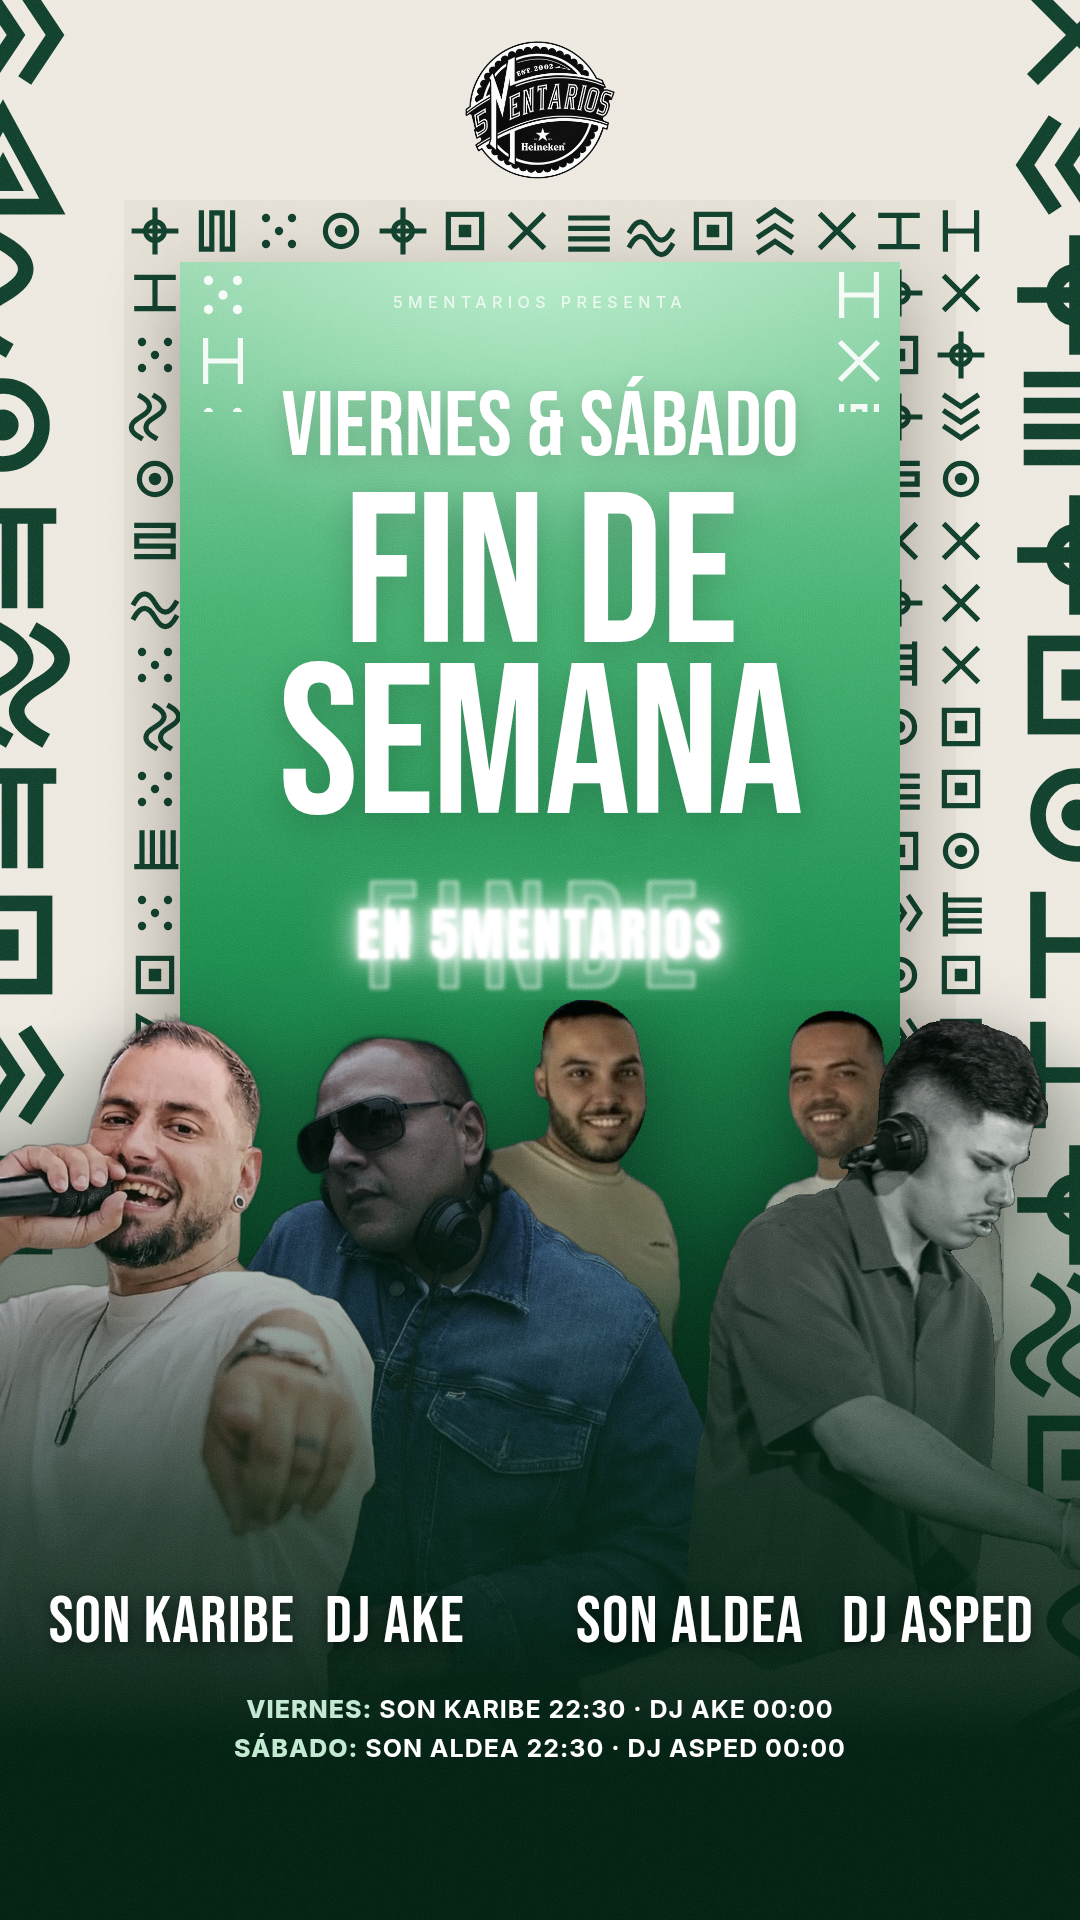
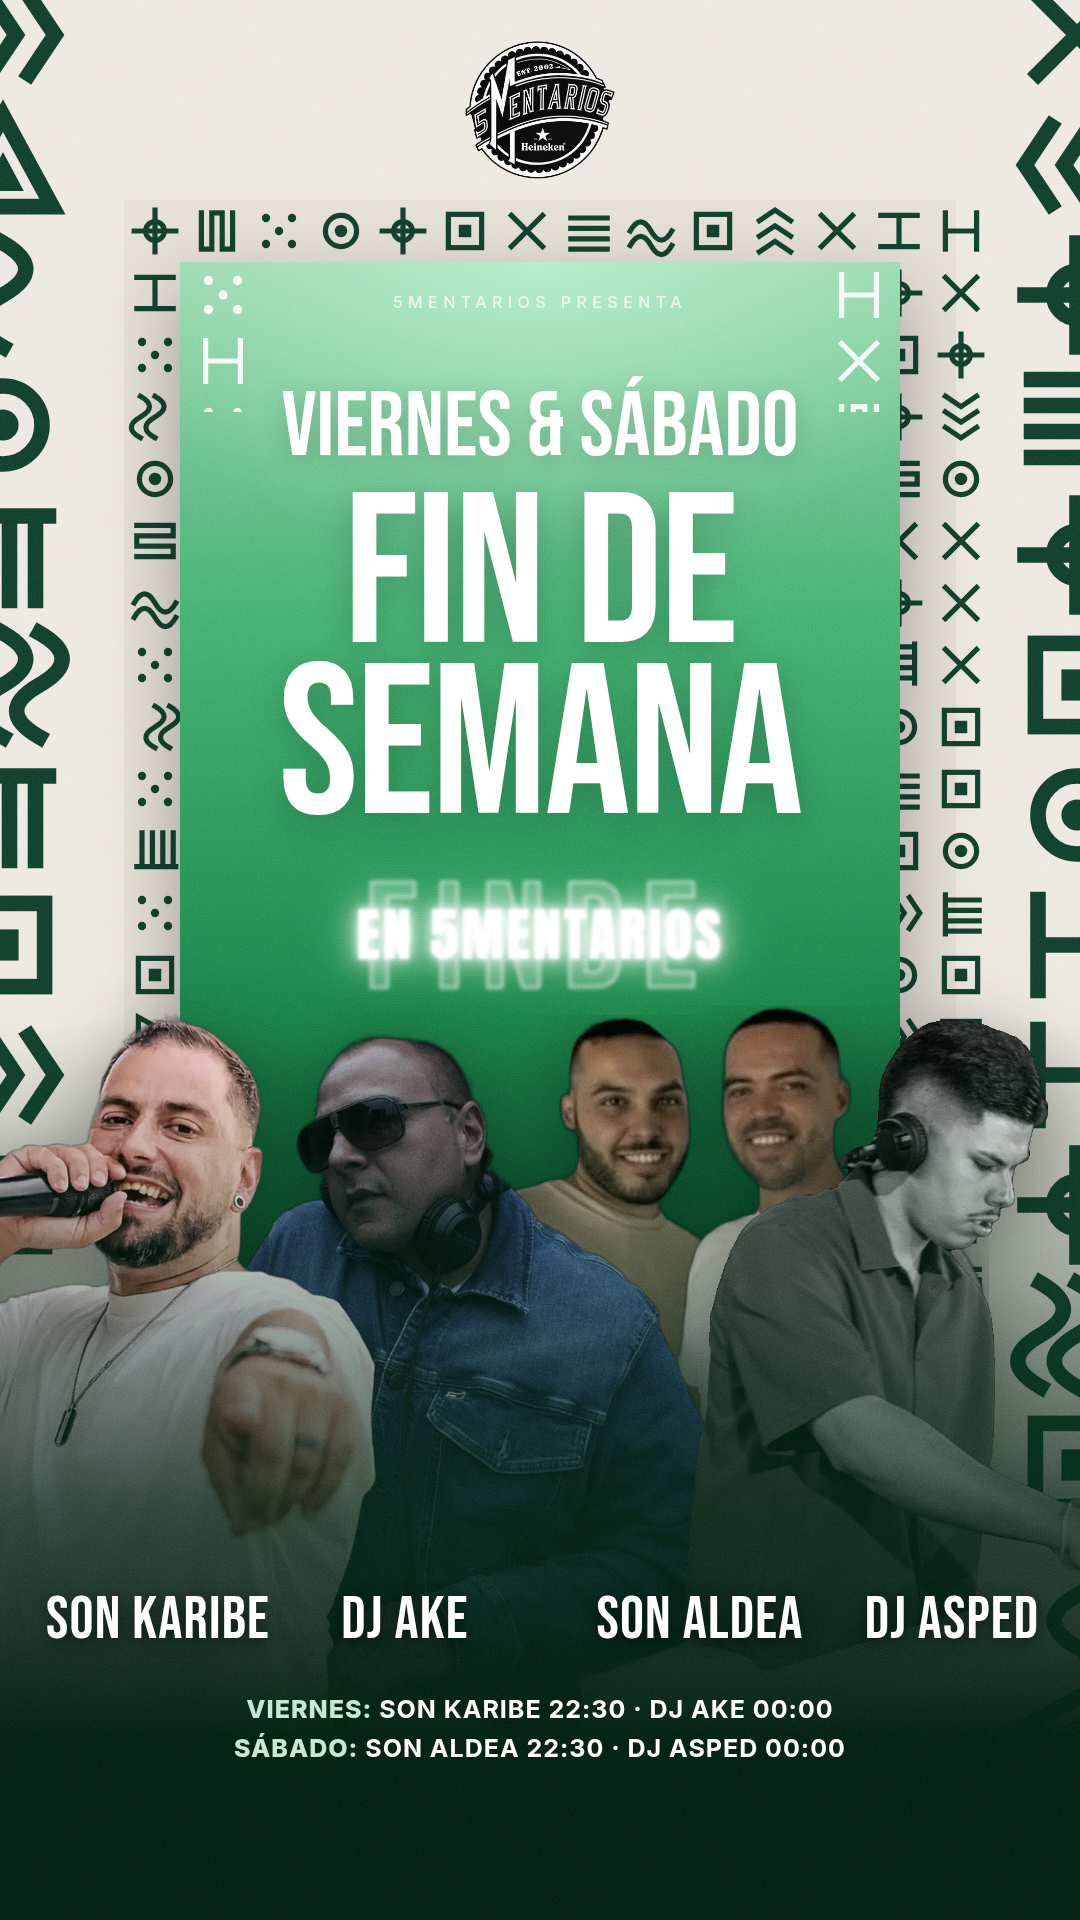
Use new individual Son Aldea photos in green lineup poster
Claude-Session: https://claude.ai/code/session_01RJzBzF85Mf8EXnmYDeiEGb

diff --git a/posts/2026-09-25-musica-en-directo/5mentarios-vibe.html b/posts/2026-09-25-musica-en-directo/5mentarios-vibe.html
@@ -54,7 +54,7 @@
 
   .names { position: absolute; top: 1590px; left: 0; right: 0; height: 60px; z-index: 22; }
   .names div { position: absolute; transform: translateX(-50%); white-space: nowrap;
-    font-family: "Bebas Neue", sans-serif; font-size: 66px; line-height: 1; color: #fff; letter-spacing: .02em;
+    font-family: "Bebas Neue", sans-serif; font-size: 60px; line-height: 1; color: #fff; letter-spacing: .02em;
     text-shadow: 0 3px 16px rgba(0,0,0,.6); }
 
   .info { position: absolute; left: 0; right: 0; top: 1690px; z-index: 22; text-align: center; color: #fff; }
@@ -77,7 +77,8 @@
   </div>
 
   <div class="figs" id="figs">
-    <img class="back" src="col/son-aldra.png" style="z-index: 4;" data-h="480" data-cx="703" data-top="1000" alt="Son Aldea">
+    <img class="back" src="col/son-aldea-2.png" style="z-index: 4;" data-h="560" data-cx="622" data-top="1015" alt="Son Aldea">
+    <img class="back" src="col/son-aldea-1.png" style="z-index: 4;" data-h="560" data-cx="780" data-top="1005" alt="Son Aldea">
     <img src="col/dj-ake.png"     style="z-index: 5;" data-h="750" data-cx="395" data-top="1030" alt="DJ AKE">
     <img src="col/dj-asped.png"   style="z-index: 6;" data-h="650" data-cx="960" data-top="1020" alt="DJ ASPED">
     <img src="col/son-karibe.png" style="z-index: 7;" data-h="825" data-cx="172" data-top="1010" alt="Son Karibe">
@@ -85,10 +86,10 @@
   <div class="fade"></div>
 
   <div class="names">
-    <div style="left: 172px;">SON KARIBE</div>
-    <div style="left: 395px;">DJ AKE</div>
-    <div style="left: 690px;">SON ALDEA</div>
-    <div style="left: 938px;">DJ ASPED</div>
+    <div style="left: 158px;">SON KARIBE</div>
+    <div style="left: 405px;">DJ AKE</div>
+    <div style="left: 700px;">SON ALDEA</div>
+    <div style="left: 952px;">DJ ASPED</div>
   </div>
 
   <div class="info">
@@ -136,7 +137,7 @@
     document.getElementById(id).innerHTML = t;
   }
   // figuras: data-cx = centro de la cara, calculado con la posición real de la cara en cada recorte
-  const faceX = { "col/son-karibe.png": .64, "col/dj-ake.png": .40, "col/son-aldra.png": .52, "col/dj-asped.png": .55 };
+  const faceX = { "col/son-karibe.png": .64, "col/dj-ake.png": .40, "col/son-aldea-1.png": .42, "col/son-aldea-2.png": .64, "col/dj-asped.png": .55 };
   document.querySelectorAll("#figs img").forEach(img => {
     const go = () => {
       const h = +img.dataset.h, w = h * img.naturalWidth / img.naturalHeight;
